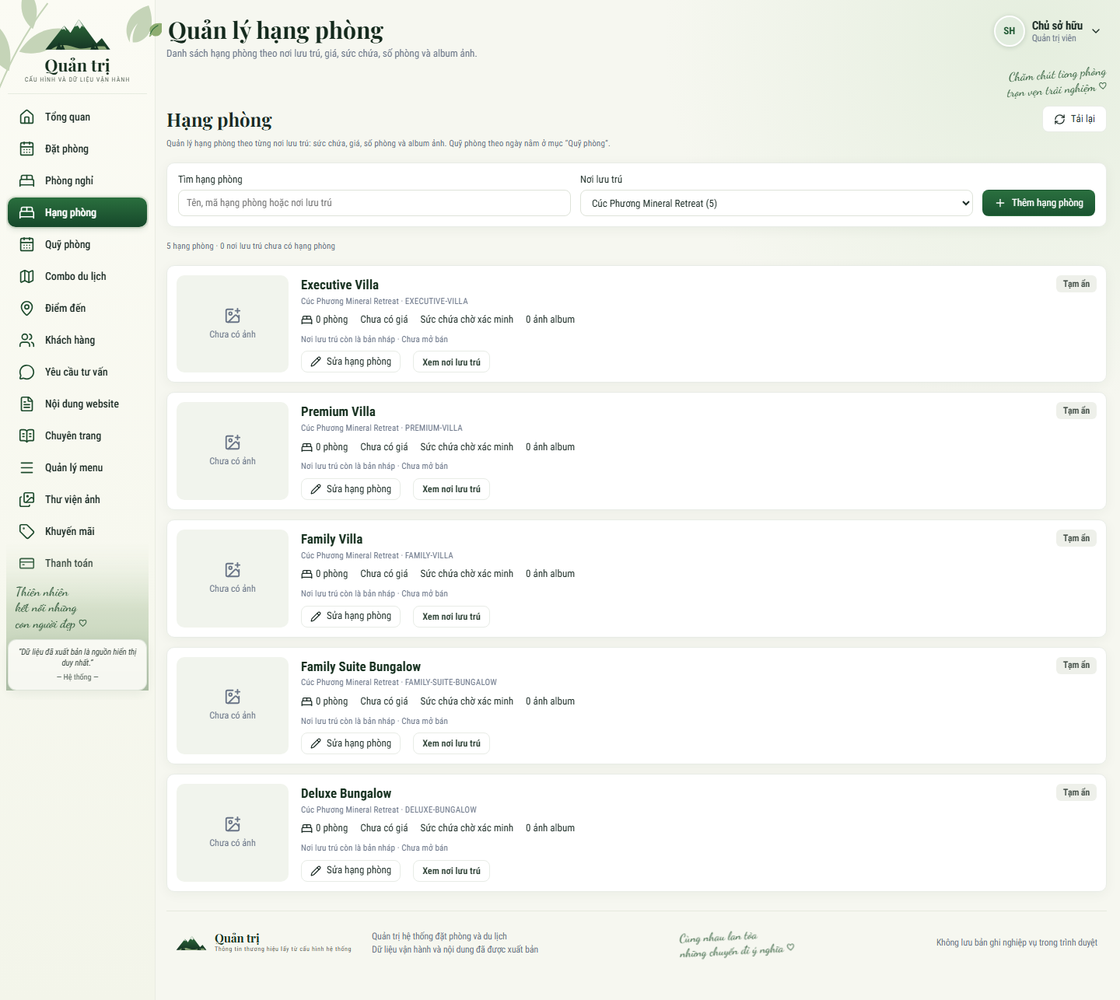
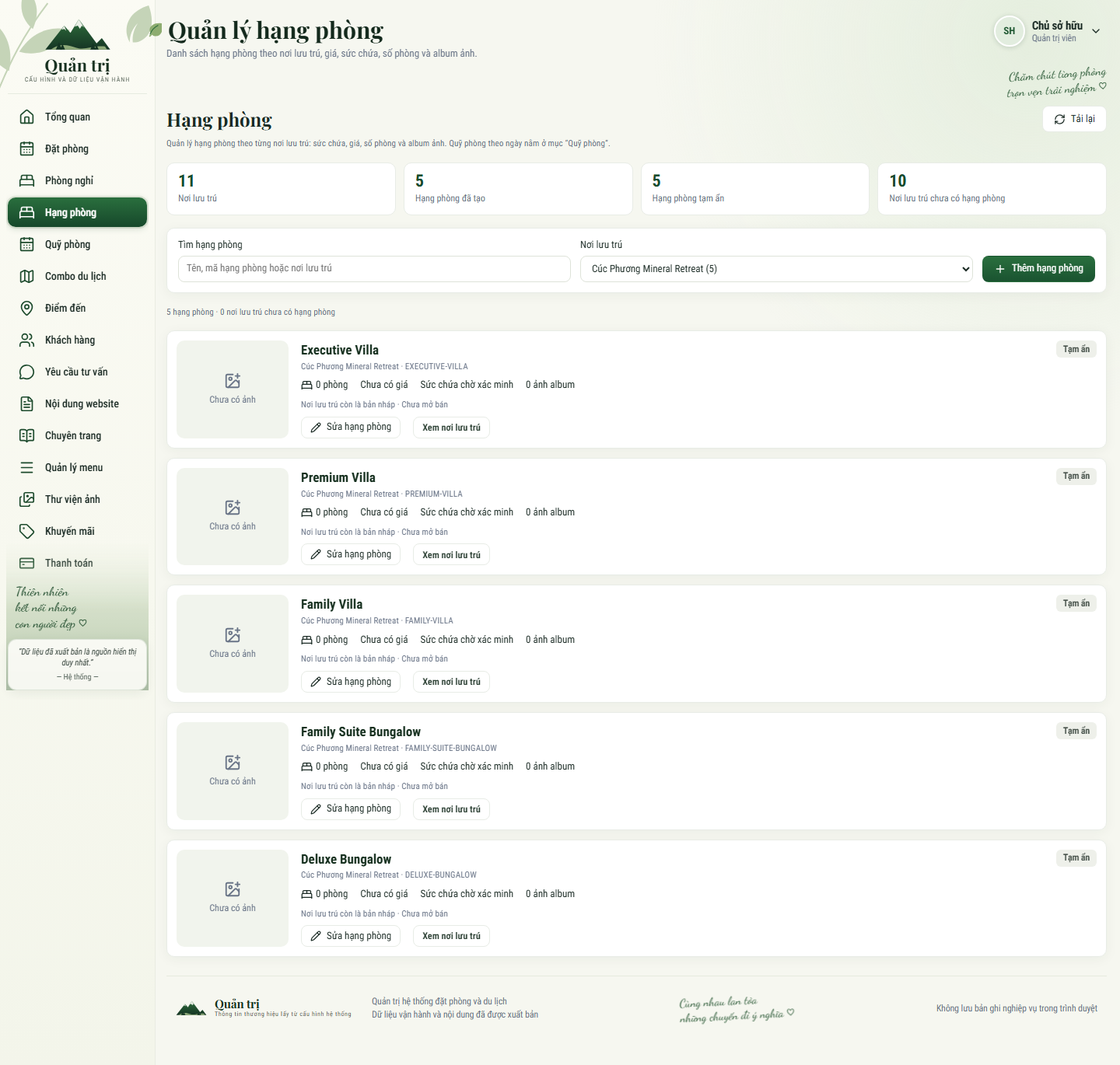
Make room categories discoverable and preserve unpriced drafts

diff --git a/src/components/admin/properties/PropertyCatalogScreen.tsx b/src/components/admin/properties/PropertyCatalogScreen.tsx
@@ -490,6 +490,7 @@ export function PropertyCatalogScreen() {
           <h2>{roomParam ? 'Quản lý hạng phòng' : createMode ? 'Thêm nơi lưu trú' : 'Chỉnh sửa nơi lưu trú'}</h2>
           <p className="ahint">{createMode ? 'Tạo thông tin phòng nghỉ trên trang riêng; dữ liệu chỉ được lưu khi bấm nút lưu.' : 'Cập nhật thông tin nơi lưu trú trên trang riêng.'}</p>
         </div>
+        {!createMode && editing && !roomParam && <a className="abtn abtn--primary admin-form-page__rooms-link" href="#hang-phong"><BedDouble size={15} aria-hidden="true" /> Đến hạng phòng ({editing.roomTypes.length})</a>}
       </div>}
 
       {error && <p className="settings-screen__message settings-screen__message--error" role="alert">{error}</p>}
@@ -569,7 +570,7 @@ export function PropertyCatalogScreen() {
             </label>
           </div>
           <div className="property-form__section" id="hang-phong">
-            <div className="album-editor__head"><div><h4>Hạng phòng ({editing.roomTypes.length})</h4><p className="ahint">Mỗi hạng phòng có giá, sức chứa và album riêng. Quỹ phòng theo ngày quản lý ở mục “Quỹ phòng”.</p></div><button type="button" className="abtn abtn--primary abtn--sm" onClick={() => router.push(`${pathname}?edit=${encodeURIComponent(editing.id)}&room=create`, { scroll: false })}><Plus size={15} /> Thêm hạng phòng</button></div>
+            <div className="album-editor__head"><div><h4>Hạng phòng ({editing.roomTypes.length})</h4><p className="ahint">Mỗi hạng phòng có giá, sức chứa và album riêng. Quỹ phòng theo ngày quản lý ở mục “Quỹ phòng”.</p></div><div className="property-form__room-actions"><Link className="abtn abtn--ghost abtn--sm" href={`/admin/hang-phong?property=${encodeURIComponent(editing.id)}`}>Xem danh sách hạng phòng</Link><button type="button" className="abtn abtn--primary abtn--sm" onClick={() => router.push(`${pathname}?edit=${encodeURIComponent(editing.id)}&room=create`, { scroll: false })}><Plus size={15} /> Thêm hạng phòng</button></div></div>
             {editing.roomTypes.length ? <div className="property-catalog__list">{editing.roomTypes.map((room) => <div className="property-card" key={room.id}><div className="property-card__body"><strong>{room.name}</strong><p className="ahint">{room.code} · {room.status === 'active' ? 'Đang hoạt động' : 'Tạm ẩn'} · {room.unitCount} phòng · {room.rate?.baseRateVnd === 0 ? 'Liên hệ để nhận giá' : money(room.rate?.baseRateVnd)} · {room.gallery?.length ?? 0} ảnh album</p><button type="button" className="abtn abtn--ghost abtn--sm" onClick={() => router.push(`${pathname}?edit=${encodeURIComponent(editing.id)}&room=${encodeURIComponent(room.id)}`, { scroll: false })}><Pencil size={14} /> Sửa hạng phòng</button></div></div>)}</div> : <p className="ahint">Chưa có hạng phòng; bấm “Thêm hạng phòng”.</p>}
             <div className="property-form__toggles">
               <label className="atoggle">
@@ -751,7 +752,8 @@ export function PropertyCatalogScreen() {
       ) : (
         <div className="property-catalog__list">
           {items.map((item) => {
-            const room = item.roomTypes[0];
+            const roomCount = item.roomTypes.length;
+            const roomPreview = item.roomTypes.slice(0, 3).map((room) => room.name).join(' · ');
             return (
               <article className="acard property-card" key={item.id}>
                 <div className="property-card__cover">
@@ -760,14 +762,14 @@ export function PropertyCatalogScreen() {
                 <div className="property-card__body">
                   <div className="property-card__head"><div><h3>{item.title}</h3><p className="ahint">{item.code} · {KIND_LABEL[item.kind] ?? item.kind}</p><p className="ahint">{item.featured ? 'Nổi bật trang chủ' : item.publicationStatus === 'published' ? 'Chưa chọn nổi bật' : null}</p></div><span className="abadge abadge--neutral">{STATUS_LABEL[item.publicationStatus] ?? item.publicationStatus} · {OPERATING_STATUS_LABEL[item.operatingStatus] ?? item.operatingStatus}</span></div>
                   <p>{item.area} · {item.address}</p>
-                  <p className="ahint">{room ? `${room.name} · ${room.unitCount} đơn vị · ${money(room.rate?.baseRateVnd)}` : 'Chưa có loại phòng'}</p>
+                  <p className="property-card__rooms"><strong>Hạng phòng ({roomCount})</strong><span>{roomCount ? `${roomPreview}${roomCount > 3 ? ` · +${roomCount - 3} hạng phòng khác` : ''}` : 'Chưa có hạng phòng — cần bổ sung thông tin đã xác minh'}</span></p>
                   <div className="property-card__actions">
                     <div className="property-card__action-group">
                       <button type="button" className="abtn abtn--ghost abtn--sm" onClick={() => openEdit(item)} disabled={editBusy || !!deleting || !!publishing}>
                         <Pencil size={14} aria-hidden="true" /> Sửa
                       </button>
-                      <Link className="abtn abtn--ghost abtn--sm" href={`/admin/hang-phong?property=${encodeURIComponent(item.id)}`}>
-                        <BedDouble size={14} aria-hidden="true" /> Hạng phòng ({item.roomTypes.length})
+                      <Link className="abtn abtn--ghost abtn--sm" href={roomCount ? `/admin/hang-phong?property=${encodeURIComponent(item.id)}` : `/admin/hang-phong?property=${encodeURIComponent(item.id)}&room=create`}>
+                        <BedDouble size={14} aria-hidden="true" /> {roomCount ? `Hạng phòng (${roomCount})` : 'Thêm hạng phòng'}
                       </Link>
                       {item.publicationStatus !== 'published' && <button type="button" className="abtn abtn--danger abtn--sm" onClick={() => void remove(item)} disabled={deleting === item.id || editBusy || !!publishing}>
                         <Trash2 size={14} aria-hidden="true" /> {deleting === item.id ? 'Đang xoá…' : 'Xoá'}

diff --git a/src/components/admin/properties/RoomCatalogScreen.tsx b/src/components/admin/properties/RoomCatalogScreen.tsx
@@ -4,7 +4,7 @@ import { ArrowLeft, BedDouble, ImagePlus, Pencil, Plus, RefreshCw } from 'lucide
 import Image from 'next/image';
 import Link from 'next/link';
 import { usePathname, useRouter, useSearchParams } from 'next/navigation';
-import { useCallback, useEffect, useMemo, useState } from 'react';
+import { useCallback, useEffect, useMemo, useRef, useState } from 'react';
 import { apiRequest } from '@/lib/api/client';
 import { RoomTypeEditor, type PropertyRoom } from './RoomTypeEditor';
 
@@ -29,6 +29,8 @@ export function RoomCatalogScreen() {
   const roomId = searchParams.get('room');
   const [properties, setProperties] = useState<Property[]>([]);
   const [search, setSearch] = useState('');
+  const propertySelectRef = useRef<HTMLSelectElement>(null);
+  const [promptProperty, setPromptProperty] = useState(false);
   const [loading, setLoading] = useState(true);
   const [error, setError] = useState<string | null>(null);
   const [notice, setNotice] = useState<string | null>(null);
@@ -54,9 +56,13 @@ export function RoomCatalogScreen() {
     .filter(({ property, room }) => (!propertyId || property.id === propertyId)
       && `${property.title} ${property.code} ${room.name} ${room.code}`.toLocaleLowerCase('vi').includes(search.trim().toLocaleLowerCase('vi'))), [properties, propertyId, search]);
   const withoutRooms = properties.filter((property) => property.roomTypes.length === 0 && (!propertyId || property.id === propertyId));
+  const totalRooms = properties.reduce((count, property) => count + property.roomTypes.length, 0);
+  const hiddenRooms = properties.reduce((count, property) => count + property.roomTypes.filter((room) => room.status !== 'active').length, 0);
+  const missingProperties = properties.filter((property) => property.roomTypes.length === 0).length;
   const goToList = () => router.push(propertyId ? `${pathname}?property=${encodeURIComponent(propertyId)}` : pathname);
   const openRoom = (targetPropertyId: string, targetRoomId: string) => {
     setNotice(null);
+    setPromptProperty(false);
     router.push(`${pathname}?property=${encodeURIComponent(targetPropertyId)}&room=${encodeURIComponent(targetRoomId)}`);
   };
   const afterSaved = async () => {
@@ -81,12 +87,18 @@ export function RoomCatalogScreen() {
       : !selected || (roomId !== 'create' && !editing) ? <div className="acard apending">Không tìm thấy hạng phòng hoặc nơi lưu trú. <button type="button" className="abtn abtn--ghost" onClick={() => router.push(pathname)}>Về danh sách</button></div>
         : <RoomTypeEditor key={`${selected.id}-${roomId}`} propertyId={selected.id} room={editing} onSaved={afterSaved} onCancel={goToList} />)
       : <>
+        {!loading && <div className="room-catalog__summary" role="group" aria-label="Tổng quan hạng phòng">
+          <div><strong>{properties.length}</strong><span>Nơi lưu trú</span></div>
+          <div><strong>{totalRooms}</strong><span>Hạng phòng đã tạo</span></div>
+          <div><strong>{hiddenRooms}</strong><span>Hạng phòng tạm ẩn</span></div>
+          <div><strong>{missingProperties}</strong><span>Nơi lưu trú chưa có hạng phòng</span></div>
+        </div>}
         <div className="acard room-catalog__toolbar">
           <label className="afield"><span>Tìm hạng phòng</span><input className="ainput" type="search" value={search} onChange={(event) => setSearch(event.target.value)} placeholder="Tên, mã hạng phòng hoặc nơi lưu trú" /></label>
-          <label className="afield"><span>Nơi lưu trú</span><select className="ainput" value={propertyId} onChange={(event) => router.replace(event.target.value ? `${pathname}?property=${encodeURIComponent(event.target.value)}` : pathname)}><option value="">Tất cả nơi lưu trú</option>{properties.map((property) => <option value={property.id} key={property.id}>{property.title} ({property.roomTypes.length})</option>)}</select></label>
-          <button type="button" className="abtn abtn--primary" disabled={!selected} onClick={() => selected && openRoom(selected.id, 'create')}><Plus size={16} aria-hidden="true" /> Thêm hạng phòng</button>
+          <label className="afield"><span>Nơi lưu trú</span><select ref={propertySelectRef} className="ainput" value={propertyId} onChange={(event) => { setPromptProperty(false); router.replace(event.target.value ? `${pathname}?property=${encodeURIComponent(event.target.value)}` : pathname); }}><option value="">Tất cả nơi lưu trú</option>{properties.map((property) => <option value={property.id} key={property.id}>{property.title} ({property.roomTypes.length})</option>)}</select></label>
+          <button type="button" className="abtn abtn--primary" onClick={() => { if (selected) openRoom(selected.id, 'create'); else { setPromptProperty(true); propertySelectRef.current?.focus(); } }}><Plus size={16} aria-hidden="true" /> Thêm hạng phòng</button>
         </div>
-        {!selected && !loading && <p className="ahint room-catalog__instruction">Chọn một nơi lưu trú ở trên để thêm hạng phòng; hoặc dùng nút “Thêm” ở danh sách nơi lưu trú chưa có hạng phòng bên dưới.</p>}
+        {!selected && !loading && <p className="ahint room-catalog__instruction" role={promptProperty ? 'status' : undefined}>{promptProperty ? 'Hãy chọn nơi lưu trú trong ô phía trên, rồi bấm “Thêm hạng phòng”.' : 'Đang xem tất cả hạng phòng. Chọn nơi lưu trú ở trên để thêm hạng phòng; bản nháp/tạm ẩn chưa hiện ngoài website.'}</p>}
         {loading ? <div className="acard apending">Đang tải danh sách hạng phòng…</div> : <>
           <p className="ahint room-catalog__count">{rooms.length} hạng phòng · {withoutRooms.length} nơi lưu trú chưa có hạng phòng{search && ' · kết quả theo từ khóa'}</p>
           {rooms.length > 0 ? <div className="property-catalog__list">

diff --git a/src/components/admin/properties/RoomTypeEditor.tsx b/src/components/admin/properties/RoomTypeEditor.tsx
@@ -22,9 +22,9 @@ type RoomForm = {
 function initial(room?: PropertyRoom): RoomForm {
   return {
     code: room?.code ?? '', name: room?.name ?? '', description: room?.description ?? '',
-    maxAdults: String(room?.maxAdults ?? 2), maxChildren: String(room?.maxChildren ?? 0),
+    maxAdults: room ? String(room.maxAdults) : '', maxChildren: room ? String(room.maxChildren) : '',
     bedSummary: room?.bedSummary ?? '', areaSqm: room?.areaSqm ? String(room.areaSqm) : '',
-    unitCount: String(room?.unitCount ?? 1), rateVnd: String(room?.rate?.baseRateVnd ?? 0),
+    unitCount: room ? String(room.unitCount) : '', rateVnd: room?.rate ? String(room.rate.baseRateVnd) : '',
     weekendRateVnd: room?.rate?.weekendRateVnd == null ? '' : String(room.rate.weekendRateVnd),
     breakfastIncluded: room?.rate?.breakfastIncluded ?? false, status: room?.status ?? 'active', gallery: room?.gallery ?? [],
   };
@@ -43,7 +43,8 @@ export function RoomTypeEditor({ propertyId, room, onSaved, onCancel }: {
       const common = {
         name: form.name.trim(), description: form.description.trim(), maxAdults: Number(form.maxAdults),
         maxChildren: Number(form.maxChildren), bedSummary: form.bedSummary.trim(),
-        areaSqm: form.areaSqm ? Number(form.areaSqm) : undefined, rateVnd: Number(form.rateVnd),
+        areaSqm: form.areaSqm ? Number(form.areaSqm) : undefined,
+        rateVnd: form.rateVnd.trim() === '' ? undefined : Number(form.rateVnd),
         unitCount: Number(form.unitCount),
         weekendRateVnd: form.weekendRateVnd ? Number(form.weekendRateVnd) : undefined,
         breakfastIncluded: form.breakfastIncluded, galleryMediaIds: form.gallery.map((item) => item.mediaId),
@@ -65,13 +66,13 @@ export function RoomTypeEditor({ propertyId, room, onSaved, onCancel }: {
       <label className="afield"><span>Trẻ em tối đa *</span><input className="ainput" type="number" min="0" max="30" value={form.maxChildren} onChange={(event) => patch('maxChildren', event.target.value)} required /></label>
       <label className="afield"><span>Giường / view</span><input className="ainput" value={form.bedSummary} onChange={(event) => patch('bedSummary', event.target.value)} maxLength={120} /></label>
       <label className="afield"><span>Diện tích (m²)</span><input className="ainput" type="number" min="1" value={form.areaSqm} onChange={(event) => patch('areaSqm', event.target.value)} /></label>
-      <label className="afield"><span>Số phòng bán được</span><input className="ainput" type="number" min={room ? '0' : '1'} max="100" value={form.unitCount} onChange={(event) => patch('unitCount', event.target.value)} required /><small className="ahint">{room ? 'Có thể bổ sung phòng. Không giảm tại đây để tránh ảnh hưởng đơn đặt và quỹ phòng.' : 'Số phòng ban đầu; quỹ phòng theo ngày được quản lý riêng.'}</small></label>
+      <label className="afield"><span>Số phòng bán được *</span><input className="ainput" type="number" min={room ? '0' : '1'} max="100" value={form.unitCount} onChange={(event) => patch('unitCount', event.target.value)} required /><small className="ahint">{room ? 'Có thể bổ sung phòng. Không giảm tại đây để tránh ảnh hưởng đơn đặt và quỹ phòng.' : 'Nhập số phòng thực tế đã xác minh; quỹ phòng theo ngày được quản lý riêng.'}</small></label>
       {room && <label className="afield"><span>Hiển thị hạng phòng</span><select className="ainput" value={form.status} onChange={(event) => patch('status', event.target.value)}><option value="active">Đang hoạt động</option><option value="inactive">Tạm ẩn</option></select></label>}
-      <label className="afield"><span>Giá ngày thường (VND) *</span><input className="ainput" type="number" min="0" value={form.rateVnd} onChange={(event) => patch('rateVnd', event.target.value)} required /></label>
+      <label className="afield"><span>Giá ngày thường (VND){!room || room.rate ? ' *' : ''}</span><input className="ainput" type="number" min="0" value={form.rateVnd} onChange={(event) => patch('rateVnd', event.target.value)} required={!room || !!room.rate} />{room && !room.rate && <small className="ahint">Để trống nếu chưa xác minh giá. Chỉ nhập 0 khi muốn hiển thị “Liên hệ”.</small>}</label>
       <label className="afield"><span>Giá cuối tuần (VND)</span><input className="ainput" type="number" min="0" value={form.weekendRateVnd} onChange={(event) => patch('weekendRateVnd', event.target.value)} /></label>
       <label className="atoggle property-form__toggle"><input type="checkbox" checked={form.breakfastIncluded} onChange={(event) => patch('breakfastIncluded', event.target.checked)} /><span className="atoggle__track"><span className="atoggle__thumb" /></span><span className="atoggle__text"><strong>Bao gồm bữa sáng</strong></span></label>
     </div>
     <div className="property-form__section"><AlbumEditor label={`Album hạng phòng: ${form.name || 'Chưa đặt tên'}`} items={form.gallery} onChange={(items) => patch('gallery', items)} /></div>
-    <div className="property-form__actions"><button type="button" className="abtn abtn--ghost" onClick={onCancel} disabled={saving}>Quay lại nơi lưu trú</button><button type="submit" className="abtn abtn--primary" disabled={saving}>{saving ? 'Đang lưu…' : 'Lưu hạng phòng'}</button></div>
+    <div className="property-form__actions"><button type="button" className="abtn abtn--ghost" onClick={onCancel} disabled={saving}>Quay lại danh sách hạng phòng</button><button type="submit" className="abtn abtn--primary" disabled={saving}>{saving ? 'Đang lưu…' : 'Lưu hạng phòng'}</button></div>
   </form>;
 }

diff --git a/tests/property-album-contact.spec.ts b/tests/property-album-contact.spec.ts
@@ -32,9 +32,26 @@ test('admin room types and reusable albums publish gallery; 0đ is contact-only'
   const mineral = (seedCatalog.body as { items: Array<{ id: string; code: string; roomTypes: unknown[] }> }).items
     .find((item) => item.code === 'CP-MINERAL-RETREAT');
   expect(mineral?.roomTypes).toHaveLength(5);
+  await page.goto('/admin/hang-phong');
+  await expect(page.locator('.room-catalog__summary')).toContainText('Hạng phòng đã tạo');
+  await expect(page.locator('.room-catalog__card')).toHaveCount(5);
+  await page.getByRole('button', { name: 'Thêm hạng phòng' }).click();
+  await expect(page.locator('.room-catalog__instruction')).toContainText('Hãy chọn nơi lưu trú');
+  await expect(page.getByLabel('Nơi lưu trú')).toBeFocused();
   await page.goto(`/admin/hang-phong?property=${mineral!.id}`);
   await expect(page.locator('.room-catalog__card')).toHaveCount(5);
   await expect(page.locator('.room-catalog__card').first()).toContainText('Sức chứa chờ xác minh');
+  await page.locator('.room-catalog__card').first().getByRole('button', { name: 'Sửa hạng phòng' }).click();
+  await expect(page.getByLabel('Giá ngày thường (VND)')).toHaveValue('');
+  await page.getByRole('button', { name: 'Quay lại danh sách hạng phòng' }).first().click();
+  await page.goto('/admin/phong-nghi');
+  const unconfiguredProperty = page.locator('.property-card', { hasText: 'CP-AN-GARDEN' });
+  await expect(unconfiguredProperty.locator('.property-card__rooms')).toContainText('Hạng phòng (0)');
+  await unconfiguredProperty.getByRole('link', { name: 'Thêm hạng phòng' }).click();
+  await expect(page).toHaveURL(/\/admin\/hang-phong\?property=[^&]+&room=create/);
+  await expect(page.getByRole('heading', { name: 'Thêm hạng phòng' }).first()).toBeVisible();
+  await page.getByRole('button', { name: 'Quay lại danh sách hạng phòng' }).first().click();
+  await page.goto(`/admin/hang-phong?property=${mineral!.id}`);
   if (process.env.DVB_ROOM_VISUAL_ARTIFACTS === '1') {
     await page.setViewportSize({ width: 390, height: 844 });
     await page.waitForTimeout(250);
@@ -64,6 +81,14 @@ test('admin room types and reusable albums publish gallery; 0đ is contact-only'
 
     await page.goto('/admin/phong-nghi');
     const propertyCard = page.locator('.property-card', { hasText: `ALBUM-QA ${stamp}` });
+    await expect(propertyCard.locator('.property-card__rooms')).toContainText('Hạng phòng (1)');
+    await expect(propertyCard.locator('.property-card__rooms')).toContainText('Hạng phòng liên hệ A');
+    await propertyCard.getByRole('button', { name: 'Sửa', exact: true }).click();
+    await expect(page.getByRole('link', { name: 'Đến hạng phòng (1)' })).toBeVisible();
+    await page.getByRole('link', { name: 'Đến hạng phòng (1)' }).click();
+    await expect(page.locator('#hang-phong')).toBeInViewport();
+    await expect(page.getByRole('link', { name: 'Xem danh sách hạng phòng' })).toHaveAttribute('href', `/admin/hang-phong?property=${property.id}`);
+    await page.getByRole('button', { name: 'Quay lại danh sách', exact: true }).click();
     await propertyCard.getByRole('link', { name: 'Hạng phòng (1)' }).click();
     await expect(page).toHaveURL(new RegExp(`/admin/hang-phong\\?property=${property.id}`));
     await expect(page.locator('.room-catalog__card')).toHaveCount(1);
@@ -76,6 +101,9 @@ test('admin room types and reusable albums publish gallery; 0đ is contact-only'
     await expect(page).toHaveURL(/room=create/);
     await page.getByLabel('Mã hạng phòng *').fill('ROOM-B');
     await page.getByLabel('Tên hạng phòng *').fill('Hạng phòng liên hệ B');
+    await page.getByLabel('Người lớn tối đa *').fill('2');
+    await page.getByLabel('Trẻ em tối đa *').fill('0');
+    await page.getByLabel('Số phòng bán được *').fill('1');
     await page.getByLabel('Giá ngày thường (VND) *').fill('250000');
     const album = page.locator('.album-editor');
     await album.getByRole('button', { name: 'Thêm ảnh' }).click();

diff --git a/backend/src/catalog/properties.service.ts b/backend/src/catalog/properties.service.ts
@@ -499,6 +499,9 @@ export class PropertiesService {
     if (room.version !== input.expectedVersion) throw new ConflictException('Hạng phòng đã được người khác sửa. Tải lại rồi lưu lại.');
     const name = input.name.trim();
     if (!name) throw new BadRequestException('Tên hạng phòng không được để trống');
+    if (input.rateVnd === undefined && input.weekendRateVnd !== undefined) {
+      throw new BadRequestException('Cần giá ngày thường trước khi đặt giá cuối tuần');
+    }
     await this.prisma.$transaction(async (tx) => {
       await this.assertGalleryMedia(tx, input.galleryMediaIds ?? []);
       const existingUnits = input.unitCount === undefined ? [] : await tx.roomUnit.findMany({
@@ -527,10 +530,12 @@ export class PropertiesService {
         }
         await tx.roomUnit.createMany({ data: newUnits });
       }
-      if (room.ratePlans[0]) {
-        await tx.ratePlan.update({ where: { id: room.ratePlans[0].id }, data: { baseRateVnd: BigInt(input.rateVnd), weekendRateVnd: input.weekendRateVnd === undefined ? null : BigInt(input.weekendRateVnd), breakfastIncluded: input.breakfastIncluded ?? false, version: { increment: 1 } } });
-      } else {
-        await tx.ratePlan.create({ data: { roomTypeId: room.id, code: 'BAR', name: 'Giá tiêu chuẩn', baseRateVnd: BigInt(input.rateVnd), weekendRateVnd: input.weekendRateVnd === undefined ? null : BigInt(input.weekendRateVnd), breakfastIncluded: input.breakfastIncluded ?? false, depositBps: 0, active: true } });
+      if (input.rateVnd !== undefined) {
+        if (room.ratePlans[0]) {
+          await tx.ratePlan.update({ where: { id: room.ratePlans[0].id }, data: { baseRateVnd: BigInt(input.rateVnd), weekendRateVnd: input.weekendRateVnd === undefined ? null : BigInt(input.weekendRateVnd), breakfastIncluded: input.breakfastIncluded ?? false, version: { increment: 1 } } });
+        } else {
+          await tx.ratePlan.create({ data: { roomTypeId: room.id, code: 'BAR', name: 'Giá tiêu chuẩn', baseRateVnd: BigInt(input.rateVnd), weekendRateVnd: input.weekendRateVnd === undefined ? null : BigInt(input.weekendRateVnd), breakfastIncluded: input.breakfastIncluded ?? false, depositBps: 0, active: true } });
+        }
       }
       if (input.galleryMediaIds !== undefined) await this.replaceGallery(tx, room.property.contentId, `room:${roomId}`, input.galleryMediaIds);
       await tx.contentNode.update({ where: { id: room.property.contentId }, data: { version: { increment: 1 }, lastPublicChangedAt: room.property.content.publicationStatus === 'published' ? new Date() : undefined } });

diff --git a/backend/src/catalog/properties.service.spec.ts b/backend/src/catalog/properties.service.spec.ts
@@ -1,0 +1,48 @@
+import assert from 'node:assert/strict';
+import test from 'node:test';
+import { PropertiesService } from './properties.service';
+import type { PrismaService } from '../prisma/prisma.service';
+import type { SettingsService } from '../settings/settings.service';
+import type { UpdateRoomDto } from './dto/property.dto';
+
+function roomService() {
+  const rateCreates: Array<{ baseRateVnd: bigint }> = [];
+  const tx = {
+    roomType: { updateMany: async () => ({ count: 1 }) },
+    ratePlan: {
+      create: async ({ data }: { data: { baseRateVnd: bigint } }) => { rateCreates.push(data); },
+      update: async () => undefined,
+    },
+    contentNode: { update: async () => undefined },
+    auditLog: { create: async () => undefined },
+  };
+  const prisma = {
+    roomType: { findUnique: async () => ({
+      id: 'room-id', propertyId: 'property-id', code: 'DRAFT', version: 1,
+      property: { contentId: 'content-id', content: { publicationStatus: 'draft' } },
+      ratePlans: [],
+    }) },
+    $transaction: async (callback: (client: typeof tx) => Promise<unknown>) => callback(tx),
+  } as unknown as PrismaService;
+  const service = new PropertiesService(prisma, undefined as unknown as SettingsService);
+  Object.defineProperty(service, 'getOne', { value: async () => ({}) });
+  return { service, rateCreates };
+}
+
+const draftUpdate = {
+  name: 'Phòng chờ xác minh', maxAdults: 2, maxChildren: 0,
+  status: 'inactive', expectedVersion: 1,
+} satisfies UpdateRoomDto;
+
+test('editing an unpriced draft room does not silently create a 0đ rate', async () => {
+  const { service, rateCreates } = roomService();
+  await service.updateRoom('property-id', 'room-id', draftUpdate, 'user-id');
+  assert.equal(rateCreates.length, 0);
+});
+
+test('explicit 0đ on an unpriced room creates a contact-only rate', async () => {
+  const { service, rateCreates } = roomService();
+  await service.updateRoom('property-id', 'room-id', { ...draftUpdate, rateVnd: 0 }, 'user-id');
+  assert.equal(rateCreates.length, 1);
+  assert.equal(rateCreates[0].baseRateVnd, 0n);
+});

diff --git a/src/styles/admin-ui.css b/src/styles/admin-ui.css
@@ -1199,6 +1199,8 @@ textarea.ainput {
   margin: 0;
 }
 
+.admin-form-page__rooms-link { justify-self: start; }
+
 .property-catalog {
   display: grid;
   gap: 16px;
@@ -1246,6 +1248,8 @@ textarea.ainput {
 .property-form__section h4 {
   font-size: 14px;
 }
+
+.property-form__room-actions { display: flex; flex-wrap: wrap; gap: 8px; }
 
 .property-form__grid {
   display: grid;
@@ -1314,6 +1318,14 @@ textarea.ainput {
   display: grid;
   gap: 12px;
 }
+
+.property-card__rooms { display: flex; flex-wrap: wrap; gap: 4px 8px; margin: 0; color: var(--dvb-admin-muted); font-size: 12px; overflow-wrap: anywhere; }
+.property-card__rooms strong { color: #1c4a2c; }
+
+.room-catalog__summary { display: grid; grid-template-columns: repeat(4, minmax(0, 1fr)); gap: 10px; }
+.room-catalog__summary > div { display: grid; gap: 3px; padding: 12px 14px; border: 1px solid var(--dvb-admin-border); border-radius: 10px; background: #fff; }
+.room-catalog__summary strong { color: #194c2d; font-size: 22px; line-height: 1; }
+.room-catalog__summary span { color: var(--dvb-admin-muted); font-size: 12px; }
 
 .room-catalog__toolbar {
   display: grid;
@@ -1404,6 +1416,7 @@ textarea.ainput {
 }
 
 @media (max-width: 720px) {
+  .room-catalog__summary { grid-template-columns: repeat(2, minmax(0, 1fr)); }
   .room-catalog__toolbar,
   .room-catalog__card { grid-template-columns: 1fr; }
   .room-catalog__image { max-height: 180px; }

diff --git a/backend/src/catalog/dto/property.dto.ts b/backend/src/catalog/dto/property.dto.ts
@@ -324,8 +324,8 @@ export class UpdateRoomDto {
   @Type(() => Number) @IsOptional() @IsInt() @Min(1) @Max(1000)
   areaSqm?: number;
 
-  @Type(() => Number) @IsInt() @Min(0)
-  rateVnd!: number;
+  @Type(() => Number) @IsOptional() @IsInt() @Min(0)
+  rateVnd?: number;
 
   /** Existing rooms may add sellable units; reductions require inventory review. */
   @Type(() => Number) @IsOptional() @IsInt() @Min(0) @Max(100)

diff --git a/docs/END_TO_END_COMPLETION_PLAN_2026-09-28.md b/docs/END_TO_END_COMPLETION_PLAN_2026-09-28.md
@@ -13,6 +13,7 @@ Quản trị viên nhập và duyệt dữ liệu qua Admin → PostgreSQL/Media
 - Lượt quét mới: 8 route client cấp cao × 390/768/1024/1440/1920 = 40 trường hợp không lỗi JavaScript/HTTP 5xx/tràn ngang ở trạng thái dữ liệu local hiện tại. Lượt quét phát hiện `/phong-nghi` có animation làm tràn ngang 11px tại 1440; đã sửa và đo lại 40/40. Mô tả RichText trên ảnh hero đã được sửa tương phản, có assert màu kế thừa. Ảnh kiểm tra: [phòng nghỉ mobile](../artifacts/public-visual-stays-390.png), [phòng nghỉ desktop](../artifacts/public-visual-stays-1440.png), [liên hệ mobile](../artifacts/public-visual-contact-390.png), [liên hệ desktop](../artifacts/public-visual-contact-1440.png). Test này chưa chứng minh các trang chi tiết nhiều dữ liệu hay mọi trạng thái lỗi.
 - Bài restart persistence opt-in đã chạy lại ngày 2026-09-28: 1/1 pass; nội dung, media, settings, inquiry, property và menu tồn tại sau khi recreate API/web/worker rồi được dọn/khôi phục.
 - PostgreSQL local có 11 nơi lưu trú Cúc Phương dạng nháp/chờ xác minh, 5 hạng phòng của Mineral Retreat đều tạm ẩn và 0 đơn vị phòng; không phải nguồn hàng đã sẵn sàng bán. Admin có route riêng `/admin/hang-phong`, lọc theo nơi lưu trú, thêm/sửa, album, giá và bổ sung số phòng; giảm số phòng bị chặn để tránh ảnh hưởng dữ liệu đặt phòng. Kiểm thử tạo/sửa hạng phòng, tăng 1→2, từ chối giảm, album dùng chung và giá 0→liên hệ đã đạt rồi dọn fixture. Ảnh kiểm tra: [hạng phòng mobile](../artifacts/admin-room-catalog-390.png), [hạng phòng desktop](../artifacts/admin-room-catalog-1440.png). Không tự xuất bản, tạo giá/tồn/ảnh chưa được xác minh. SEO indexing vẫn đóng. Chưa kiểm tra hay thay đổi production trong kế hoạch này.
+- Lượt bổ sung hạng phòng ngày 2026-09-28: danh sách nơi lưu trú hiện tên/số hạng phòng và dẫn thẳng tới danh sách hoặc form thêm; trang sửa có nút nhảy tới khối hạng phòng; màn quản lý riêng hiện 11/5/5/10 (cơ sở/hạng phòng/tạm ẩn/cơ sở chưa có phòng) trên dữ liệu local. Form tạo mới không tự điền sức chứa, số đơn vị hay giá; sửa hạng phòng chưa có giá giữ nguyên trạng thái “chưa có giá”, chỉ nhập `0` có chủ đích mới tạo giá liên hệ. Unit test backend và E2E browser bao phủ các hành vi này. 10 cơ sở còn thiếu hạng phòng vẫn chờ dữ liệu xác minh; không tự tạo phòng/giá/tồn giả.
 
 ## Thứ tự thực hiện và gate nghiệm thu
 
